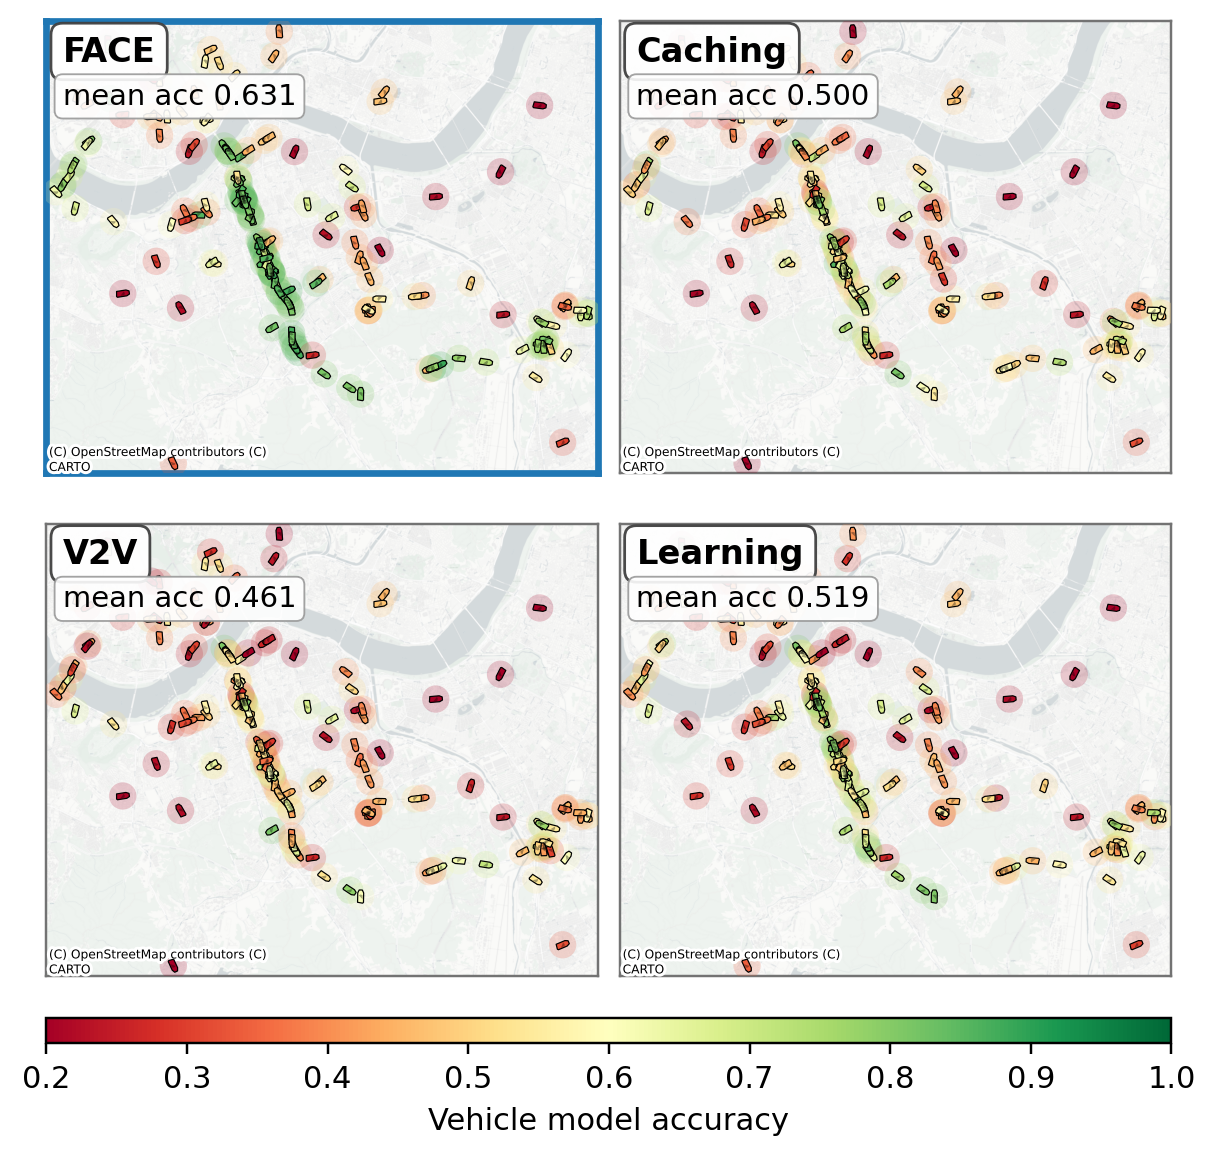
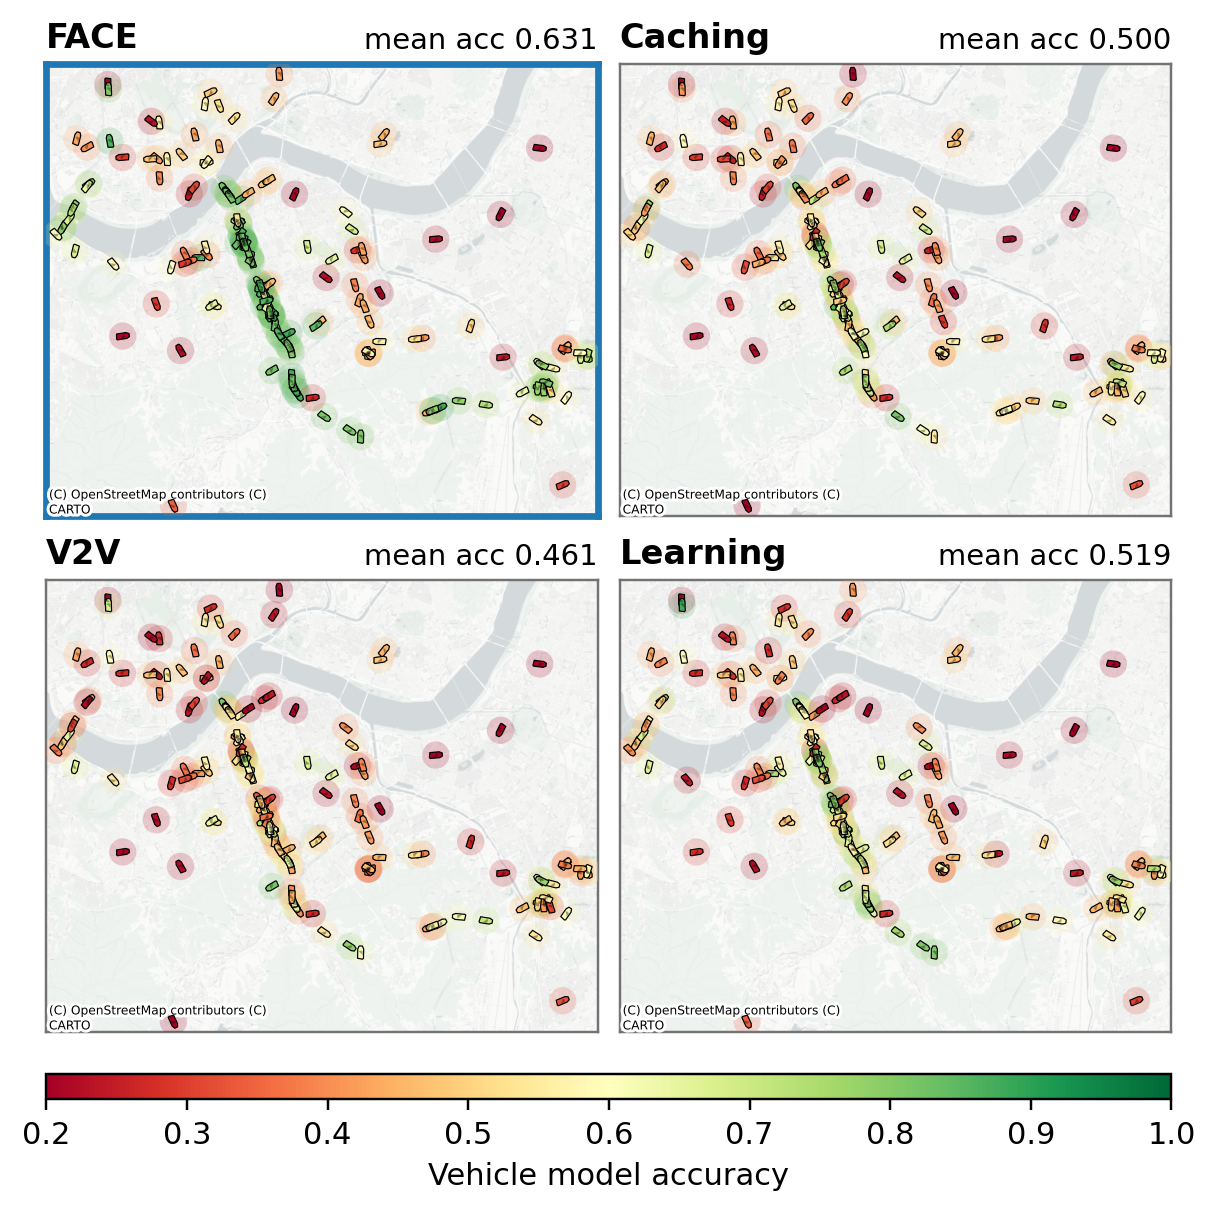
Map figure: move scheme name + mean-acc labels off the map
The rounded chips sat inside each panel's top-left corner and hid the
vehicles/roads underneath. Labels now sit above each panel (name left,
mean acc right); hspace bumped 0.06->0.12 for the second-row titles.

diff --git a/sim/v2x_map.py b/sim/v2x_map.py
@@ -157,18 +157,14 @@ def make_v2x_map_subfig(cfg=None, device="cpu", num_vehicles=180, snap_k=None,
                                 facecolors="black", alpha=0.35,
                                 edgecolors="none", zorder=5)
         ax.add_collection(cabins)
-        # rounded chip label with the scheme name + cohort mean accuracy
+        # scheme name + cohort mean accuracy above the panel, off the map,
+        # so the labels never occlude vehicles or roads
         name = disp(s)
-        ax.text(0.03, 0.97, f"{name}", transform=ax.transAxes,
-                ha="left", va="top", fontsize=11, fontweight="bold",
-                zorder=6, bbox=dict(boxstyle="round,pad=0.35",
-                                    fc="white", ec="0.25", lw=0.9,
-                                    alpha=0.95))
-        ax.text(0.03, 0.865, f"mean acc {acc.mean():.3f}",
-                transform=ax.transAxes, ha="left", va="top", fontsize=9.5,
-                zorder=6, bbox=dict(boxstyle="round,pad=0.28",
-                                    fc="white", ec="0.6", lw=0.6,
-                                    alpha=0.9))
+        ax.text(0.0, 1.02, f"{name}", transform=ax.transAxes,
+                ha="left", va="bottom", fontsize=11, fontweight="bold")
+        ax.text(1.0, 1.02, f"mean acc {acc.mean():.3f}",
+                transform=ax.transAxes, ha="right", va="bottom",
+                fontsize=9.5)
         # accent border on the proposed scheme's panel
         if s == "Proposed":
             for sp in ax.spines.values():
@@ -177,7 +173,7 @@ def make_v2x_map_subfig(cfg=None, device="cpu", num_vehicles=180, snap_k=None,
             for sp in ax.spines.values():
                 sp.set_edgecolor("0.45"); sp.set_linewidth(0.8)
 
-    fig.subplots_adjust(wspace=0.04, hspace=0.06)
+    fig.subplots_adjust(wspace=0.04, hspace=0.12)
     sm = ScalarMappable(norm=norm, cmap=cmap)
     cbar = fig.colorbar(sm, ax=axes.tolist(), orientation="horizontal",
                         fraction=0.045, pad=0.04, aspect=45)